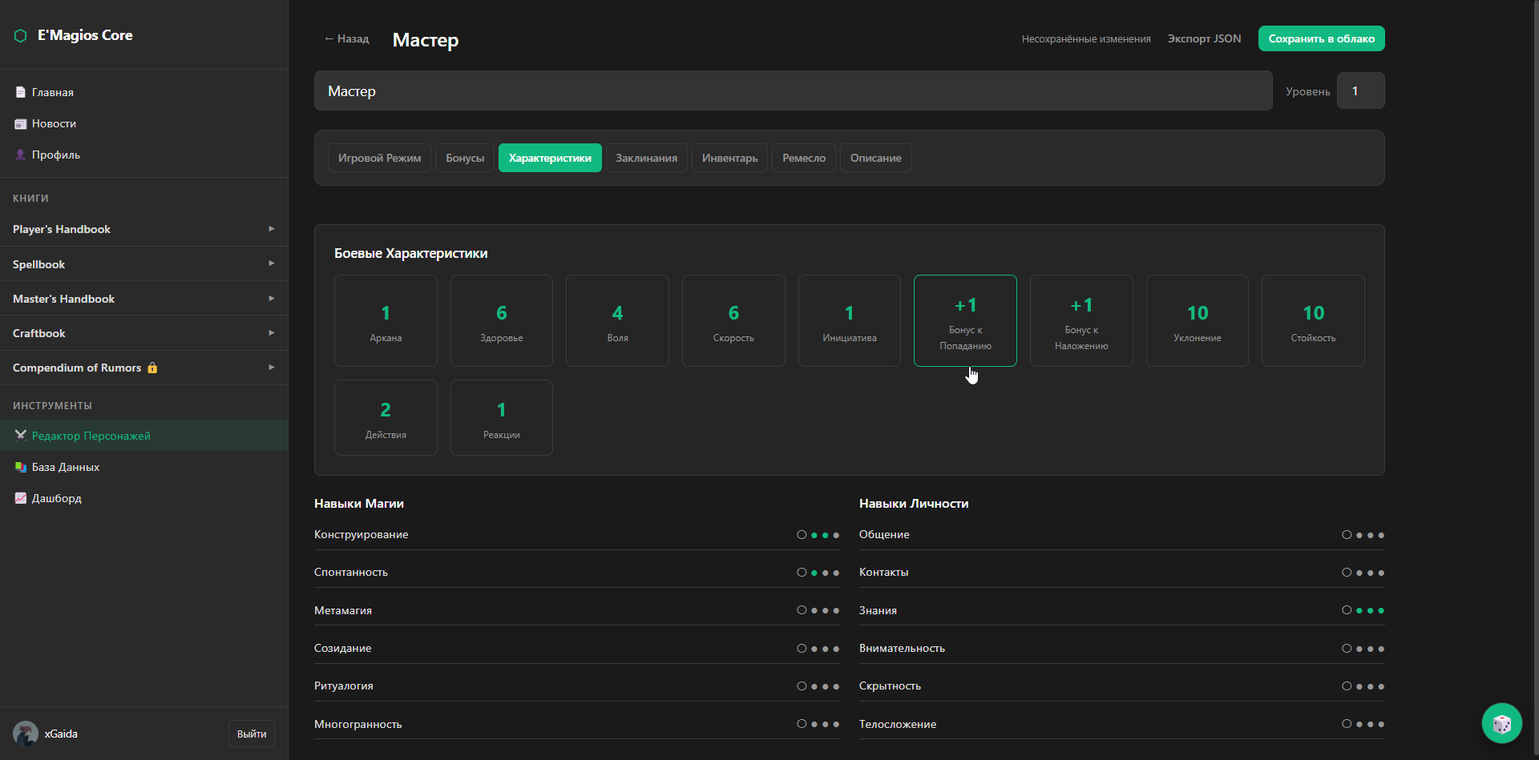
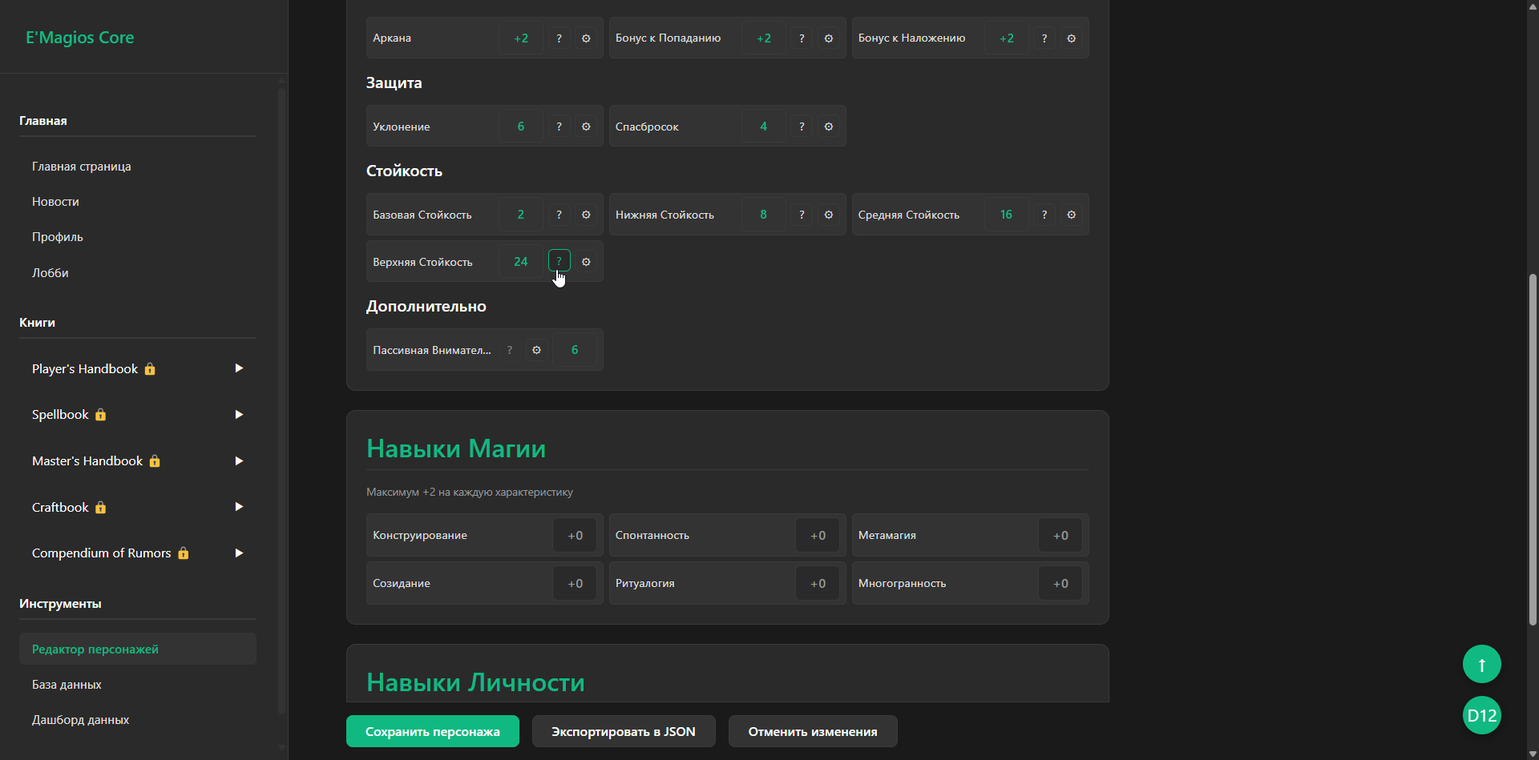
docs: refresh portfolio README + screenshots

diff --git a/README.md b/README.md
@@ -1,52 +1,99 @@
-<div align="center">
+<!-- ============================================================
+     README.md — один файл, только русский.
+     Левое выравнивание. Без упоминаний AI.
+     ============================================================ -->
+
+<a id="top"></a>
 
 # E'Magios Core — Companion Site
 
-> Веб-платформа авторской настольной ролевой системы **E'Magios Core**: редактор персонажа, компендиум, броски кубов и контентный конвейер. Дипломный проект — миграция legacy-сайта (vanilla JS) на React + Feature-Sliced Design.
+> Веб-приложение авторской настольной ролевой системы **E'Magios Core**: редактор персонажа, компендиум мира и глобальный виджет бросков кубов. Дипломный проект на React + Feature-Sliced Design.
 
-<br>
+<p>
+  <a href="https://reactjs.org/"><img alt="React 18" src="https://img.shields.io/badge/React_18-20232a?style=flat-square&logo=react&logoColor=61dafb"/></a>
+  <a href="https://www.typescriptlang.org/"><img alt="TypeScript 5" src="https://img.shields.io/badge/TypeScript_5-3178c6?style=flat-square&logo=typescript&logoColor=white"/></a>
+  <a href="https://vitejs.dev/"><img alt="Vite 5" src="https://img.shields.io/badge/Vite_5-646cff?style=flat-square&logo=vite&logoColor=white"/></a>
+  <a href="https://firebase.google.com/"><img alt="Firebase" src="https://img.shields.io/badge/Firebase-ffca28?style=flat-square&logo=firebase&logoColor=black"/></a>
+  <img alt="Feature-Sliced Design" src="https://img.shields.io/badge/Feature--Sliced_Design-8957e5?style=flat-square"/>
+  <a href="https://pages.github.com/"><img alt="GitHub Pages" src="https://img.shields.io/badge/GitHub_Pages-222222?style=flat-square&logo=githubpages&logoColor=white"/></a>
+  <a href="https://github.com/Kaliguri/E-Magios-Core-Site/actions/workflows/ci.yml"><img alt="CI" src="https://img.shields.io/github/actions/workflow/status/Kaliguri/E-Magios-Core-Site/ci.yml?branch=main&style=flat-square&label=CI&logo=githubactions&logoColor=white"/></a>
+  <img alt="License" src="https://img.shields.io/badge/License-All_Rights_Reserved-red?style=flat-square"/>
+</p>
 
-[![Открыть сайт](https://img.shields.io/badge/Открыть%20сайт-E'Magios%20Core-7c3aed?style=for-the-badge&logo=googlechrome&logoColor=white)](https://kaliguri.github.io/E-Magios-Core-Site/)
-[![Ops-дэшборд](https://img.shields.io/badge/Ops-телеметрия%20%2F%20метрики-6c757d?style=for-the-badge&logo=grafana&logoColor=white)](https://kaliguri.github.io/E-Magios-Core-Site/#/ops)
+|                      |                                                                                                                                                                                                                                                                                                                                                                                                                                                                                                                                                |
+| -------------------- | ---------------------------------------------------------------------------------------------------------------------------------------------------------------------------------------------------------------------------------------------------------------------------------------------------------------------------------------------------------------------------------------------------------------------------------------------------------------------------------------------------------------------------------------------- |
+| **Frontend**         | <a href="https://reactjs.org/"><img alt="React" src="https://img.shields.io/badge/React_18-1f6feb?style=flat-square"/></a> <a href="https://www.typescriptlang.org/"><img alt="TypeScript" src="https://img.shields.io/badge/TypeScript_5-1f6feb?style=flat-square"/></a> <a href="https://vitejs.dev/"><img alt="Vite" src="https://img.shields.io/badge/Vite_5-1f6feb?style=flat-square"/></a> <a href="https://reactrouter.com/"><img alt="React Router" src="https://img.shields.io/badge/React_Router_6-1f6feb?style=flat-square"/></a>   |
+| **Архитектура**      | <img alt="Feature-Sliced Design" src="https://img.shields.io/badge/Feature--Sliced_Design-8957e5?style=flat-square"/> <img alt="Content as Data" src="https://img.shields.io/badge/Content_as_Data-8957e5?style=flat-square"/> <img alt="Status Workflow" src="https://img.shields.io/badge/Status_Workflow-8957e5?style=flat-square"/>                                                                                                                                                                                                        |
+| **Backend**          | <a href="https://firebase.google.com/docs/auth"><img alt="Firebase Auth" src="https://img.shields.io/badge/Firebase_Auth-1f6feb?style=flat-square"/></a> <a href="https://firebase.google.com/docs/firestore"><img alt="Cloud Firestore" src="https://img.shields.io/badge/Cloud_Firestore-1f6feb?style=flat-square"/></a> <a href="https://github.com/jakearchibald/idb"><img alt="IndexedDB (idb)" src="https://img.shields.io/badge/IndexedDB_(idb)-1f6feb?style=flat-square"/></a>                                                         |
+| **Контент-пайплайн** | <a href="https://github.com/privatenumber/tsx"><img alt="tsx" src="https://img.shields.io/badge/tsx-1f6feb?style=flat-square"/></a> <a href="https://www.python.org/"><img alt="Python" src="https://img.shields.io/badge/Python-1f6feb?style=flat-square"/></a>                                                                                                                                                                                                                                                                               |
+| **Инструменты**      | <a href="https://eslint.org/"><img alt="ESLint" src="https://img.shields.io/badge/ESLint_9-1f6feb?style=flat-square"/></a> <a href="https://prettier.io/"><img alt="Prettier" src="https://img.shields.io/badge/Prettier_3-1f6feb?style=flat-square"/></a> <a href="https://vitest.dev/"><img alt="Vitest" src="https://img.shields.io/badge/Vitest_2-1f6feb?style=flat-square"/></a> <a href="https://github.com/features/actions"><img alt="GitHub Actions" src="https://img.shields.io/badge/GitHub_Actions-1f6feb?style=flat-square"/></a> |
 
-<br>
-
-[![CI](https://img.shields.io/github/actions/workflow/status/Kaliguri/E-Magios-Core-Site/ci.yml?branch=main&style=flat-square&label=CI&logo=githubactions&logoColor=white)](https://github.com/Kaliguri/E-Magios-Core-Site/actions/workflows/ci.yml)
-[![Deploy](https://img.shields.io/github/actions/workflow/status/Kaliguri/E-Magios-Core-Site/deploy.yml?branch=main&style=flat-square&label=Deploy&logo=githubpages&logoColor=white)](https://github.com/Kaliguri/E-Magios-Core-Site/actions/workflows/deploy.yml)
-![React](https://img.shields.io/badge/React_18-20232a?logo=react&logoColor=61dafb&style=flat-square)
-![TypeScript](https://img.shields.io/badge/TypeScript-3178c6?logo=typescript&logoColor=white&style=flat-square)
-![Vite](https://img.shields.io/badge/Vite-646cff?logo=vite&logoColor=white&style=flat-square)
-![Firebase](https://img.shields.io/badge/Firebase-ffca28?logo=firebase&logoColor=black&style=flat-square)
-![Feature-Sliced](https://img.shields.io/badge/Feature--Sliced_Design-2d2d2d?style=flat-square)
-![License](https://img.shields.io/badge/License-All_Rights_Reserved-red?style=flat-square)
-
-</div>
+<p>
+  <a href="https://kaliguri.github.io/E-Magios-Core-Site/"><b>▶ Открыть сайт</b></a>
+</p>
 
 ---
 
-<details open>
+<details>
 <summary><b>Скриншоты</b></summary>
 
-<br>
-
-**Редактор персонажа** — лист персонажа с боевыми характеристиками и навыками магии/личности
+<details>
+<summary>Редактор персонажа</summary>
 
 ![Редактор персонажа](docs/screenshots/character-editor.png)
-
-**База данных** — компендиум с перекрёстными ссылками и структурированными попапами заклинаний
-
-![База данных](docs/screenshots/database.png)
-
-**Player's Handbook** — встроенные книги правил с навигацией по главам
-
-![Player's Handbook](docs/screenshots/players-handbook.png)
 
 </details>
 
 <details>
-<summary><b>Архитектура</b></summary>
+<summary>Компендиум и виджет бросков</summary>
+
+![Компендиум](docs/screenshots/compendium.png)
+
+</details>
+
+<details>
+<summary>Новости</summary>
+
+![Новости](docs/screenshots/news.png)
+
+</details>
+
+<details>
+<summary>Профиль и интеграция с Discord</summary>
+
+![Профиль](docs/screenshots/profile-discord.png)
+
+</details>
+
+</details>
+
+---
+
+## О проекте
+
+**E'Magios Core** — авторская настольная ролевая система. Этот репозиторий — её цифровой контур: веб-приложение игрока на React + Feature-Sliced Design и инженерный конвейер публикации контента. Выполнен как выпускная квалификационная работа.
+
+> **Что демонстрирует проект:** Feature-Sliced Design в боевом масштабе, конвейер «контент как данные» с аудитом и версионированием, ролевую модель доступа поверх Firestore, офлайн-кэш в IndexedDB и zero-cost деплой под защитой CI quality gate.
+
+### Ключевые возможности
+
+| Возможность             | Описание                                                                                 |
+| ----------------------- | ---------------------------------------------------------------------------------------- |
+| **Редактор персонажа**  | Полнофункциональный лист персонажа с расчётами, экипировкой и навыками                   |
+| **Компендиум**          | База данных мира: заклинания, существа, предметы, школы магии — с перекрёстными ссылками |
+| **Броски кубов**        | Глобальный виджет дайсов с историей бросков и настройками                                |
+| **Контентный workflow** | Статусная модель публикации с аудитом и версионированием                                 |
+| **Observability MVP**   | Бесплатный контур телеметрии: page views, ошибки UI, метрики загрузок, страница `/ops`   |
+| **Ролевой доступ**      | `author / editor / admin` поверх Firestore Security Rules                                |
+
+---
+
+<details id="for-developers">
+<summary><b>Для разработчиков</b></summary>
 
 <br>
+
+### Архитектура
 
 ```mermaid
 flowchart TD
@@ -68,51 +115,17 @@ flowchart TD
 - **Backend без сервера** — Firebase Auth + Firestore с ролевой моделью доступа в `firestore.rules`; приложение читает только опубликованные документы.
 - **Веб-приложение** (`apps/web`) — React + TypeScript + Vite на архитектуре Feature-Sliced Design, с офлайн-кэшем в IndexedDB и собственным контуром наблюдаемости.
 
-</details>
-
----
-
-## О проекте
-
-**E'Magios Core** — авторская настольная ролевая система. Этот репозиторий — её цифровой контур: инженерный пайплайн публикации контента и веб-приложение игрока. Проект выполнен как выпускная квалификационная работа и демонстрирует **миграцию устаревшего сайта на vanilla JS к современному стеку React + Feature-Sliced Design** без потери паритета по функциям.
-
-### Что внутри
-
-| Раздел | Описание |
-|---|---|
-| **Редактор персонажа** | Полнофункциональный лист персонажа с расчётами, экипировкой и навыками |
-| **Компендиум** | База данных мира: заклинания, существа, предметы, школы магии — с перекрёстными ссылками |
-| **Броски кубов** | Глобальный виджет дайсов с историей бросков и настройками |
-| **Контентный workflow** | Статусная модель публикации с аудитом и версионированием |
-| **Observability MVP** | Бесплатный контур телеметрии: page views, ошибки UI, метрики загрузок данных, страница `/ops` |
-| **Ролевой доступ** | `author / editor / admin` поверх Firestore Security Rules |
-
-### Ключевые инженерные решения
-
-- **Feature-Sliced Design** — строгое разделение слоёв и явные границы между фичами.
-- **Контент как данные** — источники в JSON/Markdown проходят через нормализацию, валидацию и статусный конвейер перед попаданием в runtime.
-- **Версионирование контента** — `doc.version` растёт только при реальном изменении payload; манифест релиза фиксирует изменённые коллекции и документы.
-- **Zero-cost инфраструктура** — GitHub Pages + Firebase free tier + собственная телеметрия без внешних платных сервисов.
-- **Quality Gate в CI** — lint, format, typecheck, тесты и сборка как обязательные проверки на каждый PR.
-
----
-
-<details>
-<summary><b>Для разработчиков</b></summary>
-
-<br>
-
 ### Технический стек
 
-| | |
-|---|---|
-| **Frontend** | React 18, TypeScript 5, Vite 5, React Router 6 |
-| **Архитектура** | Feature-Sliced Design |
-| **Backend** | Firebase Auth + Cloud Firestore |
-| **Кэш / офлайн** | IndexedDB (через `idb`) |
-| **Контент-пайплайн** | TypeScript (`tsx`) + Python |
-| **Качество** | ESLint 9, Prettier 3, Vitest 2, Testing Library |
-| **CI/CD** | GitHub Actions + GitHub Pages |
+|                      |                                                 |
+| -------------------- | ----------------------------------------------- |
+| **Frontend**         | React 18, TypeScript 5, Vite 5, React Router 6  |
+| **Архитектура**      | Feature-Sliced Design                           |
+| **Backend**          | Firebase Auth + Cloud Firestore                 |
+| **Кэш / офлайн**     | IndexedDB (через `idb`)                         |
+| **Контент-пайплайн** | TypeScript (`tsx`) + Python                     |
+| **Качество**         | ESLint 9, Prettier 3, Vitest 2, Testing Library |
+| **CI/CD**            | GitHub Actions + GitHub Pages                   |
 
 ### Структура репозитория
 
@@ -121,17 +134,13 @@ E-Magios-Core-Site/
 ├── apps/web/                    # React + TypeScript + Vite (Feature-Sliced Design)
 ├── scripts/import-content/      # импорт в Firestore + workflow + smoke-проверки
 ├── scripts/data-pipeline/       # normalize / validate / relations / report
-├── scripts/parsing/             # извлечение контента (source Markdown → data JSON)
 ├── data/                        # исходный JSON для импорта
 ├── reports/                     # сгенерированные отчёты валидации и данных
-├── docs/                        # план миграции, gap-анализ, UX-аудит
-├── legacy/                      # архив исходного статического сайта (vanilla JS)
+├── docs/                        # проектная документация и UX-аудит
 ├── .github/workflows/           # CI и деплой
 ├── firestore.rules              # ролевая модель доступа
 └── firestore.indexes.json       # индексы Firestore
 ```
-
-> Папка `legacy/` — это замороженный исходный сайт на vanilla JS, с которого началась миграция. Он сохранён для истории и сравнения; продакшен — это `apps/web`.
 
 ### Локальный запуск
 
@@ -157,14 +166,6 @@ npm run check
 python scripts/data-pipeline/process_data.py --no-fail-on-errors
 ```
 
-**Legacy-превью (статика):**
-
-```bash
-python -m http.server 8000
-# http://localhost:8000/legacy/dashboard.html
-# http://localhost:8000/reports/data_report.html
-```
-
 > Для импорта в Firestore нужен `scripts/import-content/service-account.json`.
 
 ### Quality Gate
@@ -187,20 +188,12 @@ npm run smoke
 npm run check    # агрегатор
 ```
 
-`scripts/data-pipeline`:
-
-```bash
-python scripts/data-pipeline/process_data.py
-python scripts/data-pipeline/process_data.py --include-normalize
-python scripts/data-pipeline/process_data.py --strict
-```
-
 ### CI/CD
 
-| Workflow | Триггер | Назначение |
-|---|---|---|
-| `.github/workflows/ci.yml` | `pull_request`, `push` в `main/dev` | Установка зависимостей, `check` + `build` для `apps/web` и `import-content`, генерация отчётов data-pipeline, проверка артефактов |
-| `.github/workflows/deploy.yml` | `push` в `main` | Сборка `apps/web` → публикация `dist-react` в GitHub Pages |
+| Workflow                       | Триггер                             | Назначение                                                                                                                        |
+| ------------------------------ | ----------------------------------- | --------------------------------------------------------------------------------------------------------------------------------- |
+| `.github/workflows/ci.yml`     | `pull_request`, `push` в `main/dev` | Установка зависимостей, `check` + `build` для `apps/web` и `import-content`, генерация отчётов data-pipeline, проверка артефактов |
+| `.github/workflows/deploy.yml` | `push` в `main`                     | Сборка `apps/web` → публикация `dist-react` в GitHub Pages                                                                        |
 
 ### Контентный workflow
 
@@ -211,19 +204,6 @@ cd scripts/import-content
 npm run workflow:submit-review
 npm run workflow:publish
 npm run workflow:archive
-```
-
-Кастомный переход:
-
-```bash
-npx tsx content-workflow.ts --from=draft --to=review --role=author \
-  --actorId=<id> --collection=spells --changeSummary="Batch update"
-```
-
-По умолчанию импорт выставляет `status=draft`, можно переопределить:
-
-```bash
-IMPORT_STATUS=published npm run import:compendium
 ```
 
 ### Версионирование контента
@@ -250,31 +230,15 @@ IMPORT_STATUS=published npm run import:compendium
 - `content_publication_log` и `client_telemetry` читаются только `editor/admin`;
 - `client_telemetry` допускает `create` только для авторизованных пользователей.
 
-### Roadmap
-
-1. Отдельный admin-UI для ручного управления переходами статусов.
-2. Вынос части контентного workflow в server-side функции.
-3. Тесты для `content-workflow.ts` и versioning-логики import scripts.
-4. Расширение Ops-дэшборда до метрик периодов (DAU/WAU/MAU, publish lead time).
-
 </details>
 
 ---
 
 ## Лицензия
 
-**© 2026 Гайдарь М.Д. (Max Gaida). Все права защищены.**
+© 2026 Гайдарь М.Д. (Max Gaida). Все права защищены.
 
 Репозиторий опубликован в открытом доступе исключительно для демонстрации в портфолио и code review.
-Использование, копирование, распространение или создание производных работ **без письменного разрешения автора запрещено**.
+Использование, копирование, распространение или создание производных работ без письменного разрешения автора запрещено.
 
-Подробнее — [`LICENSE.md`](LICENSE.md).
-
----
-
-## Референсы
-
-Для архитектурных паттернов и оформления использовались:
-
-- [Posleslovie](https://github.com/Kaliguri/Posleslovie)
-- [Guildmaster-Autobattler](https://github.com/Kaliguri/Guildmaster-Autobattler)
+Подробнее — [LICENSE.md](LICENSE.md).
